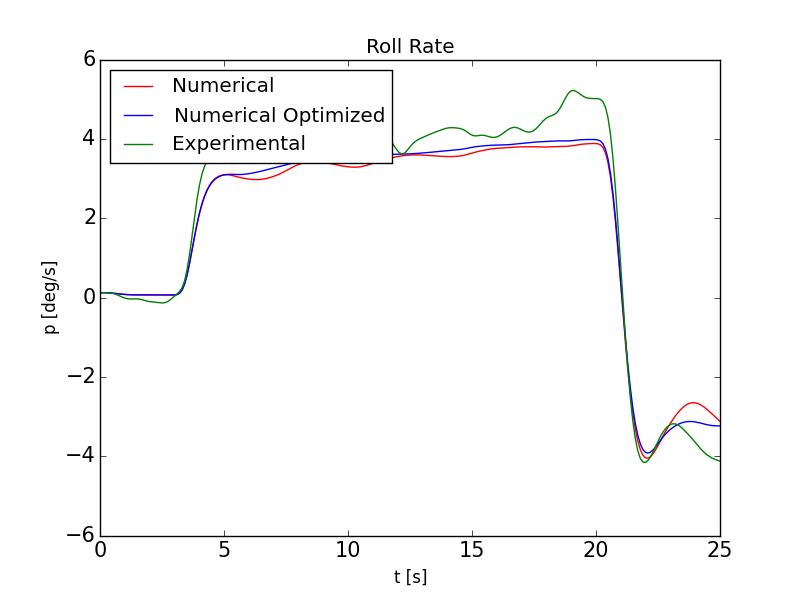
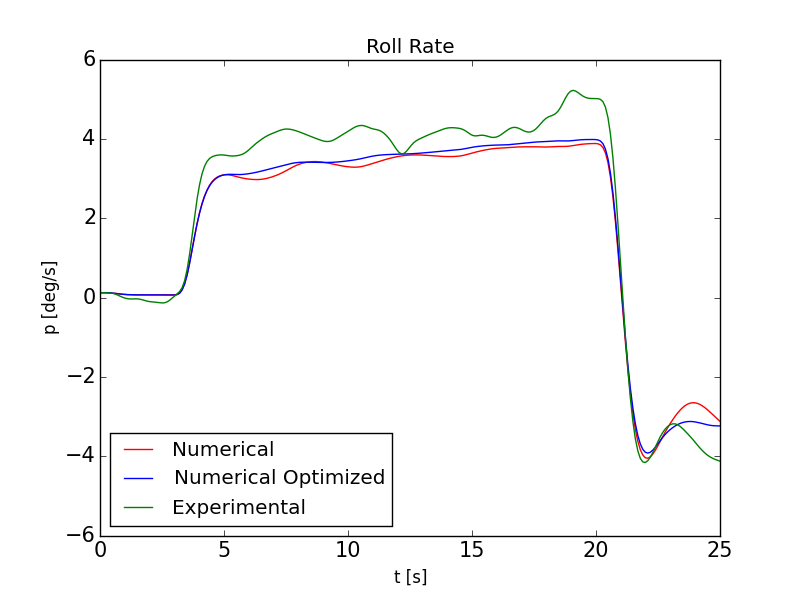
Beep Boop ik ben een robot

Changed region(s): [[0.125, 0.0908, 0.5, 0.3025], [0.125, 0.7261, 0.5, 0.9076]]

diff --git a/Plotter.py b/Plotter.py
@@ -7,7 +7,7 @@ Created on Wed Mar 29 10:45:10 2017
 
 from Numerical_Analysis_assymettric import *
 
-namem= "Spiral [Ultimate Final Johan is een natte pannekoek]"
+namem= "AperiodicRollP [Ultimate Final Johan is een natte pannekoek]"
 
 def plot(name):
 
@@ -51,7 +51,7 @@ def plot(name):
     plt.ylabel("p [deg/s]")
     plt.xlabel("t [s]")
     plt.plot(t1, name.RollRate, label="Experimental", color="green")
-    plt.legend(loc=2)
+    plt.legend(loc=3)
     plt.savefig((namem + "RollRate"))
     plt.show()
 
